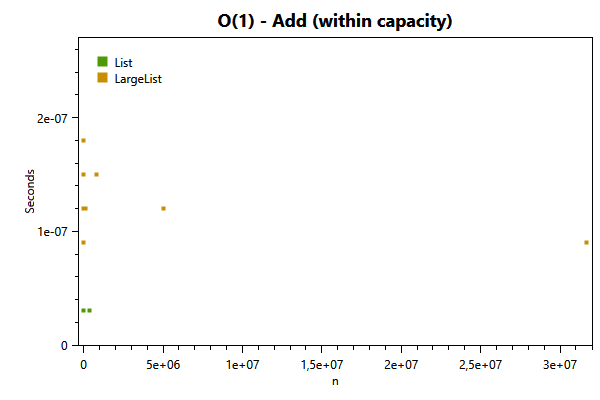
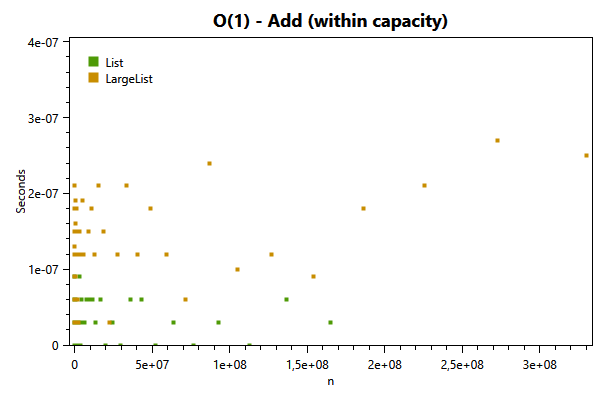
Updated performance graphs. [ci skip]

diff --git a/Performance/performance.md b/Performance/performance.md
@@ -1,4 +1,44 @@
 Here you can find a performance comparison of List<> and LargeList<> when the number of items becomes huge. The theoretical O() asymptotic behavior is provided, to help compare both lists with the theory.
 
 ![O(1) - Add (within capacity)](/Performance/O1_Add_within_capacity.png?raw=true)
+![O(1) - AsReadOnly](/Performance/O1_AsReadOnly.png?raw=true)
+![O(1) - Capacity](/Performance/O1_Capacity.png?raw=true)
+![O(1) - Count](/Performance/O1_Count.png?raw=true)
+![O(1) - get](/Performance/O1_get.png?raw=true)
+![O(1) - GetEnumerator](/Performance/O1_GetEnumerator.png?raw=true)
+![O(1) - Insert (at end)](/Performance/O1_Insert_at_end.png?raw=true)
+![O(1) - set](/Performance/O1_set.png?raw=true)
+![O(1) - TrimExcess](/Performance/O1_TrimExcess.png?raw=true)
+![O(log(n)) - BinarySearch](/Performance/Ologn_BinarySearch.png?raw=true)
+![O(n) - Add (extending capacity)](/Performance/On_Add_extending_capacity.png?raw=true)
+![O(n) - AddRange](/Performance/On_AddRange.png?raw=true)
+![O(n) - Clear](/Performance/On_Clear.png?raw=true)
+![O(n) - Contains](/Performance/On_Contains.png?raw=true)
+![O(n) - ConvertAll](/Performance/On_ConvertAll.png?raw=true)
+![O(n) - CopyTo (at begining)](/Performance/On_CopyTo_at_begining.png?raw=true)
+![O(n) - CopyTo (at end)](/Performance/On_CopyTo_at_end.png?raw=true)
+![O(n) - Exists](/Performance/On_Exists.png?raw=true)
+![O(n) - Find](/Performance/On_Find.png?raw=true)
+![O(n) - FindAll](/Performance/On_FindAll.png?raw=true)
+![O(n) - FindIndex](/Performance/On_FindIndex.png?raw=true)
+![O(n) - FindLastIndex](/Performance/On_FindLastIndex.png?raw=true)
+![O(n) - ForEach](/Performance/On_ForEach.png?raw=true)
+![O(n) - GetRange (at begining)](/Performance/On_GetRange_at_begining.png?raw=true)
+![O(n) - GetRange (at end)](/Performance/On_GetRange_at_end.png?raw=true)
+![O(n) - IndexOf](/Performance/On_IndexOf.png?raw=true)
+![O(n) - Insert (at begining)](/Performance/On_Insert_at_begining.png?raw=true)
+![O(n) - LastIndexOf](/Performance/On_LastIndexOf.png?raw=true)
+![O(n) - Remove (at begining)](/Performance/On_Remove_at_begining.png?raw=true)
+![O(n) - Remove (at end)](/Performance/On_Remove_at_end.png?raw=true)
+![O(n) - RemoveAt](/Performance/On_RemoveAt.png?raw=true)
+![O(n) - RemoveRange (at begining)](/Performance/On_RemoveRange_at_begining.png?raw=true)
+![O(n) - RemoveRange (at end)](/Performance/On_RemoveRange_at_end.png?raw=true)
+![O(n) - Reverse](/Performance/On_Reverse.png?raw=true)
+![O(n) - ToArray](/Performance/On_ToArray.png?raw=true)
+![O(n) - TrueForAll](/Performance/On_TrueForAll.png?raw=true)
+![O(n+m) - AddRange (extending capacity)](/Performance/On+m_AddRange_extending_capacity.png?raw=true)
+![O(n+m) - InsertRange (at begining)](/Performance/On+m_InsertRange_at_begining.png?raw=true)
+![O(n+m) - InsertRangeLast](/Performance/On+m_InsertRangeLast.png?raw=true)
+![O(n.log(n)) - Sort (optimal case)](/Performance/On.logn_Sort_optimal_case.png?raw=true)
+![O(n.log(n)) - Sort (random items)](/Performance/On.logn_Sort_random_items.png?raw=true)
 

diff --git a/README.md b/README.md
@@ -34,6 +34,8 @@ The green number means performance improvement: if an operation takes one second
 
 (TODO)
 
+Graphs of measured performance can be found [here](https://github.com/dlebansais/LargeList/Performance/performance.md).
+
 ## Backward compatibility
 The implementation, interface and documentation of classes and interfaces in the LargeList namespace is backward compatible as much as possible with the corresponding class or interface in .NET, when it exists. But there are some differences:
 * Indexes are long (64-bits values), not int.
